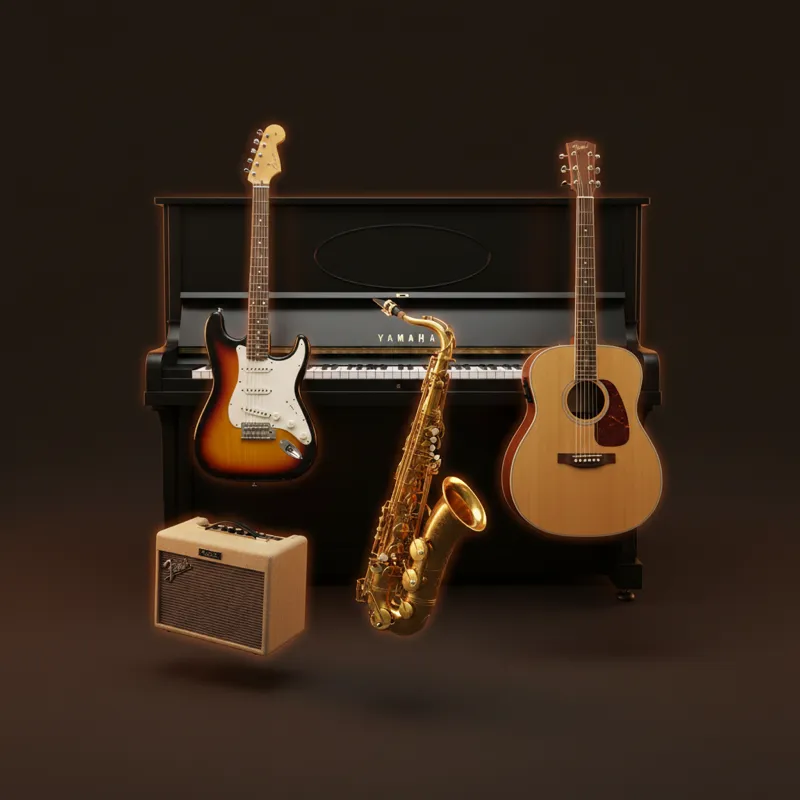
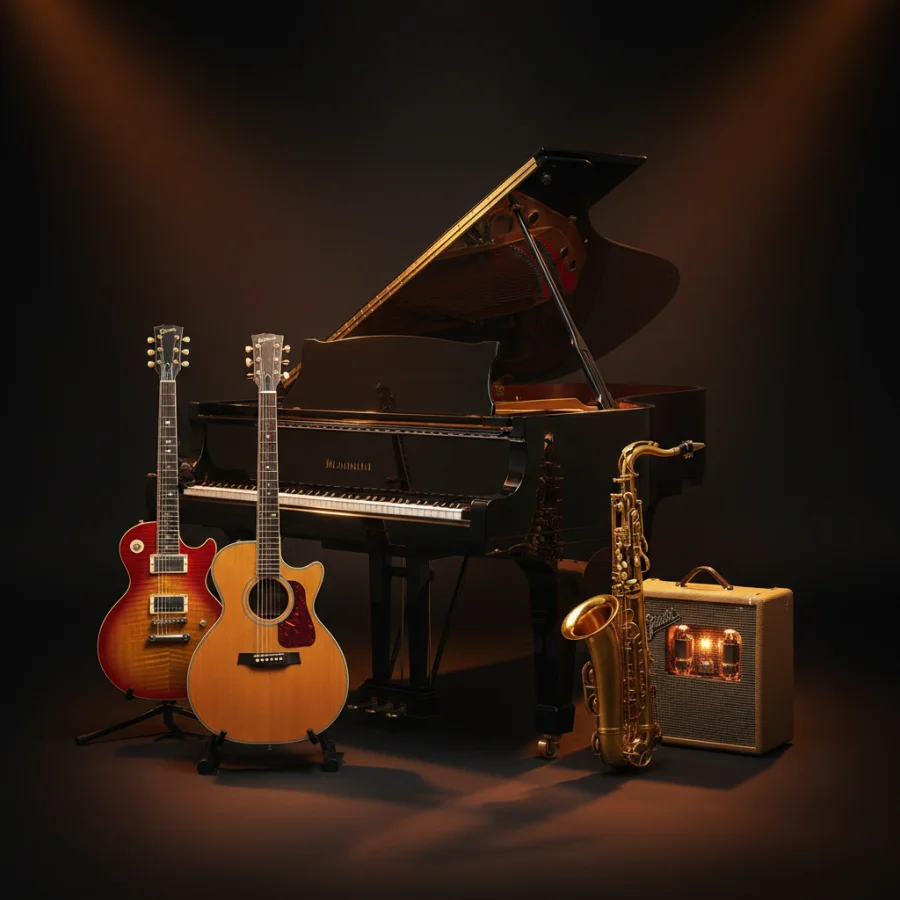
feat: ヒーロー本格改修 — グランドピアノ画像、グロウ背景、大h1、FAQ修正
- ヒーロー画像: グランドピアノ＋スポットライトのシネマティック画像に差替
- 背景: radial-gradient グロウ3箇所＋ドットパターンオーバーレイ
- h1: 4.5rem(PC)に拡大、accentグラデーションを明るいオレンジに
- 画像: mask-imageでエッジをさらにフェード
- FAQ: overflow:hidden + opacity:0で閉じ時テキスト完全非表示
- 電話CTA: 「今すぐ電話 / 052-990-3968」2行表示に統一

diff --git a/index.html b/index.html
@@ -292,12 +292,30 @@ ul, ol { list-style: none; }
   padding: 100px 0 2rem;
 }
 @media (min-width: 768px) { .hero { padding: 140px 0 0; } }
+
+/* Background glow effects */
+.hero::before {
+  content: ''; position: absolute; inset: 0;
+  background:
+    radial-gradient(ellipse 600px 400px at 70% 40%, rgba(212,90,42,0.12) 0%, transparent 70%),
+    radial-gradient(ellipse 400px 300px at 20% 80%, rgba(224,144,64,0.06) 0%, transparent 70%),
+    radial-gradient(ellipse 300px 300px at 80% 90%, rgba(212,90,42,0.05) 0%, transparent 70%);
+  z-index: 1;
+}
+/* Dot pattern overlay */
+.hero::after {
+  content: ''; position: absolute; inset: 0;
+  background-image: radial-gradient(circle, rgba(255,255,255,0.03) 1px, transparent 1px);
+  background-size: 24px 24px;
+  z-index: 1;
+}
+
 .hero-split {
   position: relative; z-index: 10;
   display: flex; flex-direction: column; gap: 2rem;
 }
 @media (min-width: 768px) {
-  .hero-split { flex-direction: row; align-items: center; gap: 2rem; min-height: 75vh; }
+  .hero-split { flex-direction: row; align-items: center; gap: 2.5rem; min-height: 78vh; }
 }
 .hero-left { flex: 1 1 55%; }
 .hero-right { flex: 1 1 45%; display: flex; justify-content: center; }
@@ -317,15 +335,16 @@ ul, ol { list-style: none; }
 }
 .hero h1 {
   font-family: var(--font-mincho); font-weight: 900;
-  color: #fff; font-size: 2.2rem; line-height: 1.15;
-  letter-spacing: -0.025em; margin-bottom: 1rem;
+  color: #fff; font-size: 2.2rem; line-height: 1.1;
+  letter-spacing: -0.03em; margin-bottom: 1rem;
 }
-@media (min-width: 768px) { .hero h1 { font-size: 3.2rem; margin-bottom: 1.25rem; } }
-@media (min-width: 1024px) { .hero h1 { font-size: 4rem; } }
+@media (min-width: 768px) { .hero h1 { font-size: 3.5rem; margin-bottom: 1.25rem; } }
+@media (min-width: 1024px) { .hero h1 { font-size: 4.5rem; } }
 .hero h1 .accent {
-  background: linear-gradient(135deg, var(--color-terra-light), var(--color-amber));
+  background: linear-gradient(135deg, #ff7a3d, var(--color-amber));
   -webkit-background-clip: text; background-clip: text;
   -webkit-text-fill-color: transparent;
+  filter: drop-shadow(0 2px 12px rgba(212,90,42,0.3));
 }
 .hero-sub {
   color: rgba(255,255,255,0.7); font-size: 0.875rem;
@@ -367,14 +386,13 @@ ul, ol { list-style: none; }
 .hero-image-wrap {
   position: relative; max-width: 420px; width: 100%;
 }
-@media (min-width: 768px) { .hero-image-wrap { max-width: 480px; } }
-@media (min-width: 1024px) { .hero-image-wrap { max-width: 540px; } }
+@media (min-width: 768px) { .hero-image-wrap { max-width: 520px; } }
+@media (min-width: 1024px) { .hero-image-wrap { max-width: 600px; } }
 .hero-image-wrap img {
   width: 100%; height: auto;
-  /* No border-radius, no border — seamless blend with dark bg */
-  mask-image: radial-gradient(ellipse 90% 85% at 50% 45%, black 50%, transparent 100%);
-  -webkit-mask-image: radial-gradient(ellipse 90% 85% at 50% 45%, black 50%, transparent 100%);
-  filter: brightness(1.1) contrast(1.05);
+  mask-image: radial-gradient(ellipse 85% 80% at 50% 48%, black 35%, transparent 90%);
+  -webkit-mask-image: radial-gradient(ellipse 85% 80% at 50% 48%, black 35%, transparent 90%);
+  filter: brightness(1.15) contrast(1.08) saturate(1.1);
 }
 .hero-badge-float {
   position: absolute; top: 2rem; right: 1rem;
@@ -764,12 +782,13 @@ ul, ol { list-style: none; }
   box-shadow: 0 2px 8px rgba(212,90,42,0.2);
 }
 .faq-answer {
-  max-height: 0; overflow: hidden; transition: max-height 0.4s cubic-bezier(0.22,1,0.36,1), padding 0.4s;
+  max-height: 0; overflow: hidden;
+  transition: max-height 0.4s cubic-bezier(0.22,1,0.36,1), padding-bottom 0.4s, opacity 0.3s;
   padding: 0 1.5rem 0 4.5rem;
   color: var(--color-text-light); font-size: 0.875rem; line-height: 1.8;
-  display: block;
+  display: block; opacity: 0;
 }
-.faq-item.open .faq-answer { max-height: 200px; padding-bottom: 1.5rem; }
+.faq-item.open .faq-answer { max-height: 300px; padding-bottom: 1.5rem; opacity: 1; }
 .faq-toggle {
   margin-left: auto; flex-shrink: 0;
   width: 28px; height: 28px; display: flex; align-items: center; justify-content: center;
@@ -907,7 +926,8 @@ body { padding-bottom: 68px; }
   .flow-step { padding: 1.25rem 1rem; }
   .flow-step-num { width: 44px; height: 44px; font-size: 1.1rem; }
   .faq-question { padding: 1rem; font-size: 0.85rem; }
-  .faq-answer { padding: 0 1rem 1rem 3.5rem; }
+  .faq-answer { padding: 0 1rem 0 3.5rem; }
+  .faq-item.open .faq-answer { padding-bottom: 1rem; }
   .faq-question .q { width: 26px; height: 26px; font-size: 0.65rem; }
   .cta-section { padding: 3rem 0; }
   .cta-section h2 { font-size: 1.4rem; }
